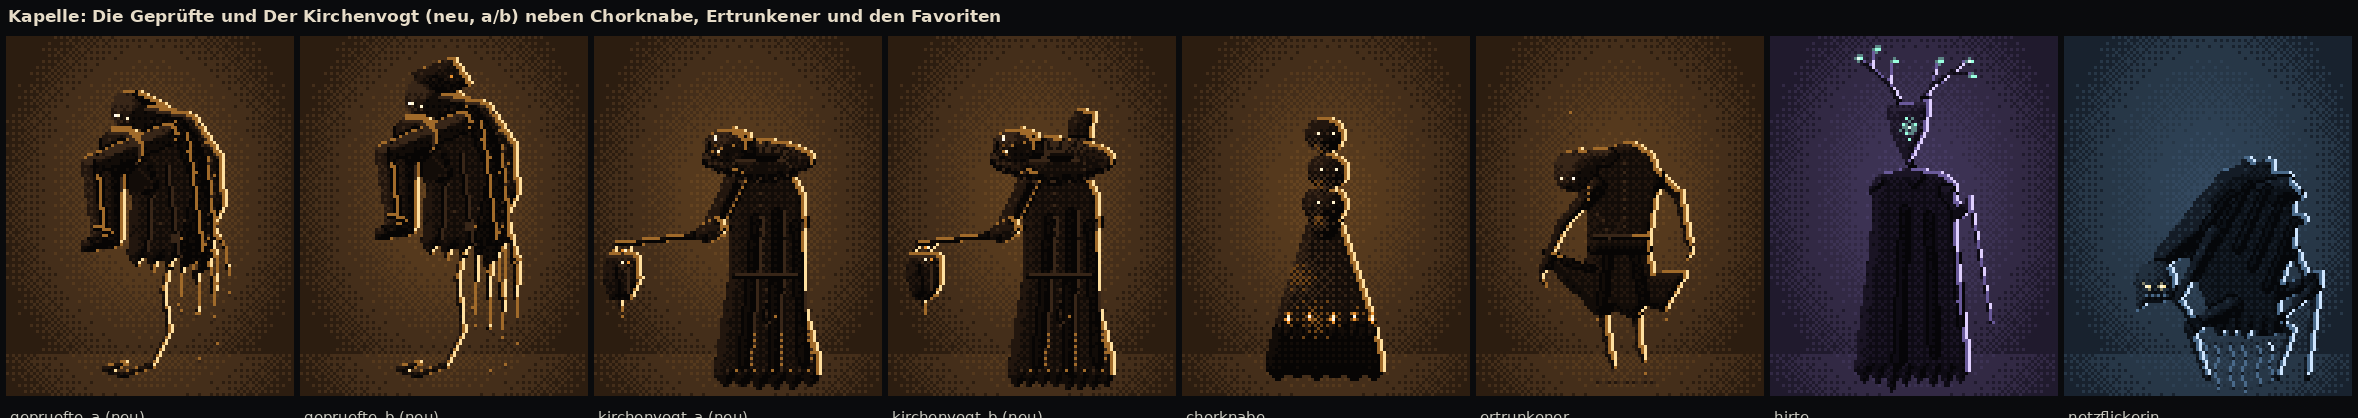
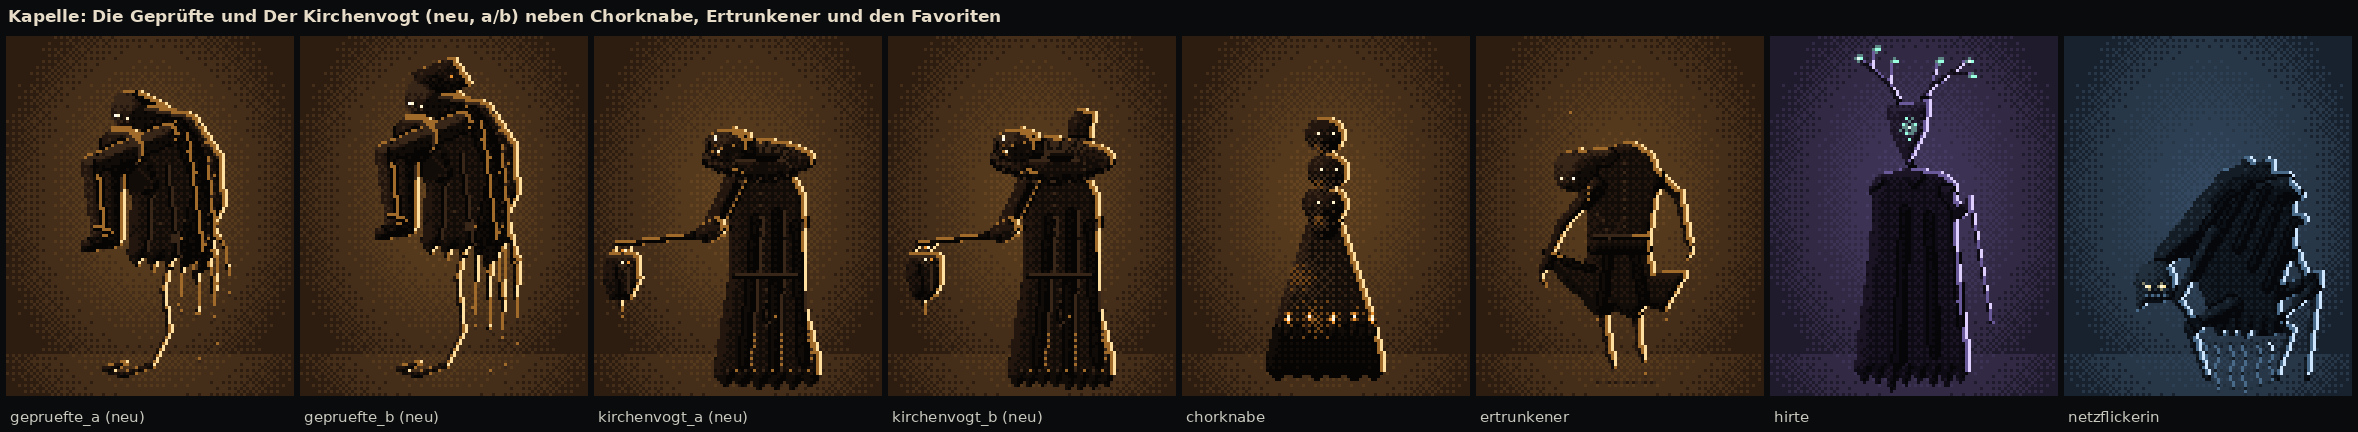
M5: Kontaktbogen je Biom automatisch (tools/biom-bogen.js)
Claude-Session: https://claude.ai/code/session_01TghvEfjLh3w7y1uAeKR46M

diff --git a/prototype/js/scenes/world/ufer.js b/prototype/js/scenes/world/ufer.js
@@ -33,7 +33,7 @@ function deckeBauen(K, P, o) {
   for (let x = -M; x < W + M; x++) {
     let yTop = -M - 1;
     const Z0 = Math.max(.6, P.h * (Yc - 2.4) / (P.vy + M) * .9);
-    for (let Z = Z0; Z < 90; Z += .004 + Z * .007) {
+    for (let Z = Z0; Z < 90; Z += .003 + Z * .0045) {
       const X = (x + .5 - P.vx) * Z / P.h, ww = w(X, Z), ys = P.vy - P.h * (Yc - 1 - ww) / Z;
       if (ys <= yTop) continue;
       const u = frac(phase(X, Z)), dZ = (w(X, Z + .02) - w(X, Z - .02)) / .04;
@@ -46,7 +46,7 @@ function deckeBauen(K, P, o) {
       else t += (.12 - .3 * Math.pow((u - .14) / .86, .7)) * A0 + Math.min(.15, Math.max(0, -dZ) * .05);
       t += (B.fbm(X * .9, Z * .6, sd + 11, 2) - .5) * .14;
       const fl = B.fbm(X * 1.3 + 4, Z * .9, sd + 21, 2);
-      const schaum = u > .12 && u < .16 + (fl - .5) * .06 && ww > .25 && Z < 30 && fl > .42;
+      const schaum = u > .12 && u < .16 + (fl - .5) * .06 && ww > .25 && Z < 13 && fl > .42;
       const y0 = Math.max(-M, Math.ceil(yTop)), y1 = Math.min(P.vy, Math.floor(ys));
       for (let y = y0; y <= y1; y++) {
         let c;
@@ -60,6 +60,8 @@ function deckeBauen(K, P, o) {
     // bis zum Horizont: der helle, flache Streifen, wo Meer und Sand sich hinten treffen
     for (let y = Math.max(-M, Math.ceil(yTop)); y <= P.vy; y++) { const tt = B.clamp(.75 + .2 * Math.exp(-(((x - (o.lichtX || 380)) / 140) ** 2)), 0, .9999) * n, k = Math.floor(tt); e.set(x, y, PW[Math.min(n, (tt - k) > B.bay(x, y) ? k + 1 : k)]); }
   }
+  // unter den Schaumkronen hängen Fäden aus Wasser, wie bei einer Welle, die gleich nach unten bricht
+  for (let i = 0; i < schaumPx.length; i += 2) { const x = schaumPx[i], y = schaumPx[i + 1]; if (B.hash(x, y, 9) > .78) { const l = 1 + Math.floor(B.hash(x, y, 10) * (y < 60 ? 6 : 3)); for (let j = 1; j <= l; j++) e.set(x, y + j, PW[j < l ? 8 : 6]); } }
   // Morgenlicht hinter dem Wasser, hinten rechts: gedithertes Glühen auf der Decke
   B.gluehen(e, o.lichtX || 380, P.vy - 10, 120, MORGEN_G2, .8);
   K.licht(o.lichtX || 380, P.vy - 6, MORGEN, 160, .9);
@@ -85,13 +87,14 @@ function gischt(K, P, xs, yBis, o) {
 function saeule(K, P, Xc, Zc, rc, Yc, o) {
   o = o || {};
   const h = P.h, k = h / Zc, m = B.maske(), L = [], R = [];
-  for (let Y = 0; Y <= Yc + .3; Y += .04) {
-    const top = Math.max(0, (Y - Yc * .5) / (Yc * .5)), fuss = Math.max(0, (.5 - Y) / .5);
-    const r = rc * (1 + 3.2 * top * top + .9 * fuss * fuss) + Math.sin(Y * 3.1) * rc * .06;
+  const Yt = Yc - (o.tief || 1) + .25;
+  for (let Y = 0; Y <= Yt; Y += .04) {
+    const top = Math.max(0, (Y - Yt * .45) / (Yt * .55)), fuss = Math.max(0, (.5 - Y) / .5);
+    const r = rc * (1 + 3.6 * top * top + .9 * fuss * fuss) + Math.sin(Y * 3.1) * rc * .06;
     const [cx, cy] = P.q(Xc, Y, Zc); L.push([cx - r * k, cy]); R.push([cx + r * k, cy]);
   }
   m.poly([...L, ...R.reverse()]);
-  const yF = P.q(Xc, 0, Zc)[1], yT = P.q(Xc, Yc, Zc)[1], cx0 = P.q(Xc, 0, Zc)[0], eb = o.ebene || K.eb(yF - 1);
+  const yF = P.q(Xc, 0, Zc)[1], yT = P.q(Xc, Yt, Zc)[1], cx0 = P.q(Xc, 0, Zc)[0], eb = o.ebene || K.eb(yF - 1);
   // Wasser fällt: senkrechte Bahnen, innen durchscheinend (das Licht kommt von oben durchs Wasser)
   B.form(K.e[eb], m, K.mat(o.tiefe || 0, { k: WASSER.slice(2, 8), r: [WASSER[8], SCHAUM[1]], ton: 2.4, fase: 2, rand: 2, verlauf: -1.2,
     muster: (x, y) => { const s = B.rausch1((x - cx0) * .45, 41); return (s > .62 ? .9 : s < .3 ? -.8 : 0) + Math.max(0, 1 - Math.abs(x - cx0) / (rc * k * 1.6)) * .8; } }));
@@ -121,6 +124,26 @@ function sandBoden(K, P, o) {
     for (const [nx, nz, nr] of nass) { const d = Math.hypot(X - nx, (Z - nz) * .8) / nr; if (d < 1) t -= .22 * (1 - d * d); else if (d < 1.12) t += .1; }
     return t;
   });
+}
+// Flutlinie aus Tang und Muscheln quer über den Sand (wie am Strand vom Anfang), dazu einzelne Steine
+function flutlinie2(K, P, Z0, o) {
+  o = o || {}; const sd = (K.o.seed | 0) % 53;
+  for (let x = -M; x < W + M; x++) {
+    const X = (x + .5 - P.vx) * Z0 / P.h, Z = Z0 + Math.sin(X * .8 + sd) * .35 + (B.fbm(X * .5, 0, sd, 2) - .5) * .8, [, y] = P.q(X, 0, Z), k = P.k(Z);
+    if (o.luecke && Math.abs(X - o.luecke[0]) < o.luecke[1]) continue;
+    if (B.fbm(X * 2.2, 3, sd + 2, 2) < .44) continue; const e = K.e[K.eb(y)], dk = Math.max(1, Math.round(k * .012));
+    for (let j = 0; j < dk; j++) e.set(x, Math.round(y) + j, B.pk(j === 0 && B.hash(x, 1, sd) > .6 ? '#3a4a30' : '#151a12'));
+    if (B.hash(x, 2, sd) > .93) { e.set(x, Math.round(y) - 1, B.pk(SAND[7])); e.set(x + 1, Math.round(y) - 1, B.pk('#c8c0a8')); }
+  }
+}
+function steine(K, P, n, o) {
+  o = o || {}; const r = B.rng((K.o.seed | 0) * 31 + (o.s || 1));
+  for (let i = 0; i < n; i++) {
+    const Z = 1.2 + Math.pow(r(), 1.5) * 8, X = r.f(-6, 6) * Z / 4, [x, y] = P.q(X, 0, Z), k = P.k(Z), m = B.maske();
+    if (o.frei && Math.abs(x - o.frei[0]) < o.frei[1] && y > o.frei[2]) continue;
+    const sz = Math.max(1, k * r.f(.03, .07)); m.ell(x, y - sz * .4, sz, sz * .65);
+    K.form(K.eb(y), m, Math.min(.5, Z / 20), { k: FELS, r: [SAND[6], MORGEN], ton: 1.8, fase: sz > 3 ? 1 : 0, rand: sz > 3 ? 2 : 1, schatten: sz > 2 ? 1 : 0 });
+  }
 }
 // Fußspuren: deine. Sie führen von vorne in die Säule (oder unter die Welle) und kommen nicht zurück.
 // pfad: Liste [X, Z] in Weltkoordinaten; ende: ab welchem Anteil sie nass sind
@@ -174,22 +197,23 @@ function strandkorb(K, P, X, Z, o) {
 // Rechts der Mitte hängt die Säule auf den Sand, deine Spuren führen von links vorne hinein.
 function flutlinie(K, o) {
   o = o || {}; const P = B.persp(240, 148), Yc = 4.2, fr = K.fr; K.split = [160, 176];
-  const Xs = 1.15, Zs = 5.2;
+  const Xs = 2.9, Zs = 4.6;
   deckeBauen(K, P, { Yc, ruhig: o.ruhig, trichter: o.ohneSaeule ? null : (X, Z) => 1.1 * Math.exp(-(((X - Xs) / 1.1) ** 2) - (((Z - Zs) / 1.3) ** 2)) });
   sandBoden(K, P, { nass: o.ohneSaeule ? [[-2.4, 4.6, .7]] : [[Xs, Zs, .9], [-2.4, 4.6, .7]] });
+  flutlinie2(K, P, 2.4); flutlinie2(K, P, 6.5); steine(K, P, 14, { frei: [240, 70, 175] });
   // ferne Felsen am Horizont links (die Höhle hat Wände), klein gegen die Weite
   fels(K, 1, [[-M, P.vy + 1], [-M, P.vy - 30], [20, P.vy - 34], [44, P.vy - 20], [70, P.vy - 14], [96, P.vy - 4], [110, P.vy + 1]], .55, { rand: 1 });
   fels(K, 2, [[350, P.vy + 2], [360, P.vy - 6], [372, P.vy - 9], [384, P.vy - 3], [392, P.vy + 2]], .35);
   let s = null;
-  if (!o.ohneSaeule) s = saeule(K, P, Xs, Zs, .14, Yc, { ruhig: o.ruhig, tiefe: .05 });
+  if (!o.ohneSaeule) s = saeule(K, P, Xs, Zs, .19, Yc, { ruhig: o.ruhig, tiefe: .05, tief: 1.1 });
   // deine Spuren: von links vorne quer über den Sand in die Säule
   const ziel = o.ohneSaeule ? [Xs - .3, Zs - .6] : [Xs - .05, Zs - .1];
-  spuren(K, P, [[-1.6, 1.1], [-1.1, 1.9], [-.2, 3.0], [.6, 4.1], ziel], { nassAb: .82 });
-  if (fr > .4 && !o.ohneSaeule) spuren(K, P, [[-3.2, 2.2], [-1.9, 3.2], [-.4, 4.4], [Xs - .15, Zs + .05]], { nassAb: .8, schritt: .4 });
-  if (fr > .8 && !o.ohneSaeule) spuren(K, P, [[3.6, 1.6], [2.9, 2.8], [1.8, 4.2], [Xs + .1, Zs]], { nassAb: .8, schritt: .44 });
+  spuren(K, P, [[-1.4, 1.1], [-.7, 1.9], [.3, 2.9], [1.5, 3.8], ziel], { nassAb: .82 });
+  if (fr > .4 && !o.ohneSaeule) spuren(K, P, [[-3.2, 2.2], [-1.6, 3.4], [.6, 4.4], [Xs - .25, Zs + .05]], { nassAb: .8, schritt: .4 });
+  if (fr > .8 && !o.ohneSaeule) spuren(K, P, [[4.6, 1.6], [4.0, 2.8], [3.3, 4.0], [Xs + .15, Zs]], { nassAb: .8, schritt: .44 });
   // die tiefste Lippe vorne lässt Gischt fallen
   if (!o.ruhig) gischt(K, P, [[96, 18, .5], [131, 30, .35], [402, 12, .45], [438, 24, .3]], P.vy + 8);
-  treibholz(K, 330, 238, 1);
+  treibholz(K, 352, 240, 1);
   if (!o.ohneRand) hoehlenRand(K, [78, 70], [420, 60]);
   B.partikel(K, { n: 30, farben: [WASSER[8], SCHAUM[0]], vx: 0, vy: 14, wob: 2, wf: .6, y0: 0, y1: P.vy + 20, laenge: 2, p: .4 });
   K.reihen = [{ y: 170, skala: .9, nebel: .3 }, { y: 192, skala: 1, nebel: .12 }, { y: 214, skala: 1, nebel: 0 }];
@@ -204,6 +228,7 @@ function brecher(K) {
   const extra = (X, Z) => 2.6 * Math.exp(-(((Z - 3.6 - X * .18) / .9) ** 2)) * B.clamp((-.2 - X) / 2.2, 0, 1);
   deckeBauen(K, P, { Yc, extra, lichtX: 400, dichte: 1.1 });
   sandBoden(K, P, { nass: [[-3.6, 4.2, 1.4]], lichtX: 400 });
+  flutlinie2(K, P, 2.0); flutlinie2(K, P, 5.2); steine(K, P, 12, { s: 2, frei: [250, 70, 185] });
   // wo die Lippe auf dem Sand aufliegt: ein Schaumsaum
   const sm = B.maske(); for (let i = 0; i < 40; i++) { const X = -7 + i * .12, Z = 3.6 + X * .18 + .25; if (X > -1.4) break; const [x, y] = P.q(X, 0, Z); sm.ell(x, y, 4 + B.hash(i, 0, 2) * 4, 1.6); }
   B.form(K.e[K.eb(P.q(-3, 0, 3.4)[1])], sm, K.mat(0, { k: [WASSER[7], SCHAUM[0], SCHAUM[1], SCHAUM[1]], r: [SCHAUM[1]], ton: 1.5, fase: 0, rand: 1 }));
@@ -226,12 +251,13 @@ function strandkorbSzene(K, o) {
   const Xs = -1.9, Zs = 7.5;
   deckeBauen(K, P, { Yc, lichtX: 330, ruhig: o.ruhig, trichter: (X, Z) => 1.2 * Math.exp(-(((X - Xs) / 1.2) ** 2) - (((Z - Zs) / 1.5) ** 2)) });
   sandBoden(K, P, { nass: [[Xs, Zs, 1]], lichtX: 330 });
+  flutlinie2(K, P, 4.2); steine(K, P, 10, { s: 3, frei: [250, 70, 175] });
   // Felswand rechts in Flucht: Schichten, nass, oben vom Wasser abgeschnitten
   const XW = 2.7, unten = [], oben = [];
   for (let Z = 1; Z <= 40; Z *= 1.06) { const xo = XW + Math.sin(Z * 1.7) * .12; unten.push(P.q(xo, 0, Z)); oben.push(P.q(xo, Yc - .5 - Math.sin(Z * 2.3) * .35, Z)); }
   const wm = B.maske(); wm.poly([...unten, ...oben.reverse(), [W + M + 400, -M - 400], [W + M + 400, H + M]]);
   K.form(2, wm, .05, { k: FELS, ton: 1.5, fase: 2, rand: 2, schatten: 2, verlauf: -.6, muster: (x, y) => { const Z = (XW * P.h) / Math.max(1, x - P.vx), Y = 1 - (y - P.vy) * Z / P.h; return (frac(Y * 3 + B.fbm(Z * .3, 0, 4, 2)) < .12 ? -.7 : 0) + (B.fbm(Z * .8, Y * 2, 5, 2) - .5) * .7; } });
-  saeule(K, P, Xs, Zs, .12, Yc, { ruhig: o.ruhig, tiefe: .1 });
+  saeule(K, P, Xs, Zs, .14, Yc, { ruhig: o.ruhig, tiefe: .1, tief: 1.2 });
   const korb = strandkorb(K, P, -.7, 2.7);
   spuren(K, P, [[.9, 1.1], [.3, 2.2], [-.2, 3.0], [-.9, 4.4], [-1.5, 6.0], [Xs, Zs - .1]], { nassAb: .85 });
   // ein Handtuch über der Armlehne des Korbs, nass
@@ -254,9 +280,10 @@ function finale(K) {
   // Spirale: die Phase dreht um die Säule
   deckeBauen(K, P, { Yc, trichter, lichtX: 240, dichte: .8, extra: (X, Z) => .25 * Math.sin(Math.atan2(Z - Zs, X - Xs) * 3 + Math.hypot(X - Xs, Z - Zs) * 2.2) * Math.exp(-((Math.hypot(X - Xs, Z - Zs) / 3) ** 2)) });
   sandBoden(K, P, { nass: [[Xs, Zs, 1.6]], lichtX: 240 });
+  flutlinie2(K, P, 2.2, { luecke: [0, 1.4] }); steine(K, P, 12, { s: 4, frei: [240, 120, 160] });
   fels(K, 1, [[-M, P.vy + 1], [-M, P.vy - 40], [30, P.vy - 30], [70, P.vy - 12], [100, P.vy + 1]], .5, { rand: 1 });
   fels(K, 1, [[W + M, P.vy + 1], [W + M, P.vy - 46], [450, P.vy - 36], [416, P.vy - 16], [380, P.vy + 1]], .5, { rand: 1 });
-  const s = saeule(K, P, Xs, Zs, .42, Yc, { tiefe: 0 });
+  const s = saeule(K, P, Xs, Zs, .42, Yc, { tiefe: 0, tief: 2.1 });
   // Spuren von überall her, alle hinein
   [[[-3.8, 1.2], [-2.6, 2.4], [-1.1, 3.8], [-.3, 4.4]], [[3.4, 1.3], [2.2, 2.6], [.9, 3.9], [.3, 4.4]], [[-.6, 1.1], [-.4, 2.6], [-.1, 4.0]],
    [[-6, 4.2], [-3.5, 4.4], [-.5, 4.6]], [[6.4, 3.6], [3.8, 4.2], [.5, 4.6]], [[1.6, 1.1], [1.1, 2.4], [.4, 4.1]]].forEach((p, i) => spuren(K, P, p, { nassAb: .75, schritt: .4 + (i % 3) * .03 }));

diff --git a/prototype/js/scenes/world/walkathedrale.js b/prototype/js/scenes/world/walkathedrale.js
@@ -79,14 +79,14 @@ function herzFerne(K, x, y, w, h, eb) {
 }
 // Eisboden mit Bohlenweg der Expedition (Planken quer) und eingefrorenen Knochensplittern
 function boden(K, P, y0, wegB) {
-  K.bodenStoffe(y0, H + M, [{ cols: EISBODEN, tf: (x, y) => { const Z = P.z(y + .5), X = (x + .5 - P.vx) * Z / P.h; return .35 + B.fbm(X * 1.5, Z * 1.2, 21, 3) * .4 - Math.min(.25, Z / 40) * -1 + (Math.abs(frac(X * .7 + Z * .3) - .5) < .02 ? .3 : 0) + (B.hash(Math.floor(X * 6), Math.floor(Z * 4), 9) < .03 ? .6 : 0); } },
-    { cols: HOLZ, tf: (x, y) => { const Z = P.z(y + .5); return frac(Z * 2.6) < .14 ? .05 : .45 + B.hash(Math.floor(Z * 2.6), 1, 4) * .35 + (frac(Z * 2.6) > .8 ? .2 : 0); } }],
+  K.bodenStoffe(y0, H + M, [{ cols: EISBODEN, tf: (x, y) => { const Z = P.z(y + .5), X = (x + .5 - P.vx) * Z / P.h; const n = B.fbm(X * 1.4, Z * 1.1, 21, 3), riss = Math.abs(B.fbm(X * 2.2, Z * 1.6, 44, 2) - .5) < .018 * Math.min(3, Z); return .3 + n * .35 + Math.min(.3, Z / 30) - (riss ? .3 : 0) + (B.hash(Math.floor(X * 9), Math.floor(Z * 9), 9) < .006 ? .5 : 0) - Math.max(0, 1.6 - Z) * .15; } },
+    { cols: HOLZ, tf: (x, y) => { const Z = P.z(y + .5); return frac(Z * 2.6) < .16 ? 0 : .22 + B.hash(Math.floor(Z * 2.6), 1, 4) * .3 + (frac(Z * 2.6) > .82 ? .18 : 0) + Math.min(.25, Z / 40); } }],
   (x, y) => { const Z = P.z(y + .5), X = (x + .5 - P.vx) * Z / P.h; return wegB && Math.abs(X - wegB[0]) < wegB[1] && Z < wegB[2] ? 1 : 0; });
 }
 // Junge Rippe, die aus dem Boden treibt und sich zur Mitte krümmt (falsches Detail)
 function trieb(K, P, X, Z, gross) {
   const s = Math.sign(X) || 1, pts = []; for (let i = 0; i <= 6; i++) { const q = i / 6; pts.push([X - s * q * q * .7 * gross, q * .95 * gross, Z]); }
-  rippe3(K, P, K.eb(P.q(X, 0, Z)[1]), pts, .055 * gross, Math.min(.5, Z / 20), 2.4);
+  rippe3(K, P, K.eb(P.q(X, 0, Z)[1]), pts, .055 * gross, Math.min(.5, Z / 20), 1.6 + Z * .08);
 }
 
 // =====================================================================
@@ -108,16 +108,16 @@ function schiff(K, cfg) {
       // Hakenende (nach innen, frei über dem Boden), dann der Bogen hinauf zum Grat
       pts.push([s * (Xw - .75), .55, Z], [s * (Xw - .35), .3, Z], [s * Xw, .7, Z]);
       for (let k = 1; k <= 9; k++) { const u = k / 9; pts.push([s * Xw * Math.pow(Math.cos(u * Math.PI / 2), .75), .7 + (Ya - .7) * Math.pow(Math.sin(u * Math.PI / 2), .85), Z + u * .15]); }
-      rippe3(K, P, eb, pts, .14 + (i % 2) * .02, tiefe, 2.6 - tiefe, (i % 3 === 1 && Z > 2.4 && Z < 16) ? .9 + fr * .3 : 0);
+      rippe3(K, P, eb, pts, .14 + (i % 2) * .02, tiefe, 1.3 + tiefe * 1.6, (i % 3 === 1 && Z > 2.4 && Z < 16) ? .9 + fr * .3 : 0);
     }
     // Wirbel am Grat: Knoten mit Dornfortsatz
     const [vx, vy] = P.q(0, Ya + .25, Z + .15), k = P.k(Z), m = B.maske(); m.ell(vx, vy, k * .32, k * .2); m.kap(vx, vy, vx + k * .05, vy - k * .38, k * .07, k * .03);
-    K.form(eb, m, tiefe, knochenMat(2.4 - tiefe));
+    K.form(eb, m, tiefe, knochenMat(1.3 + tiefe * 1.6));
   }
   // Grat zwischen den Wirbeln
   const g = B.maske(); for (let i = 0; i < 11; i++) { const Z1 = 1.25 * Math.pow(1.3, i), Z2 = Z1 * 1.3; g.kap(...P.q(0, Ya + .25, Z1), ...P.q(0, Ya + .25, Z2), P.k(Z1) * .08, P.k(Z2) * .08); }
   K.form(2, g, .3, knochenMat(1.6));
-  boden(K, P, P.vy, [0, .55, 24]);
+  boden(K, P, P.vy, [0, .38, 24]);
   // Junge Rippen aus dem Boden, zur Mitte gekrümmt
   for (const [X, Z, gr] of [[-1.6, 2.6, 1], [1.9, 3.3, .8], [-2.2, 5.5, .9], [1.4, 7.5, .7], [-1.2, 11, .6]]) trieb(K, P, X, Z, gr * (1 + fr * .4));
   // Tranlampen am Weg; mit der Fremdheit verlöschen die hinteren
@@ -137,17 +137,17 @@ function kiefer(K, cfg) {
   eisWand(K, 470, 60, { unten: 120 });
   lichtRiss(K, 448, 30, 60, 1.9);
   // Ferne: Schädelkuppel mit Augenhöhle, in der Mark glimmt (Wahrzeichen: das Herz ist hier nur Glimmen in der Ferne)
-  const sk = B.maske(); sk.ell(150, 150, 190, 92); sk.rect(-M, 150, 360, 30); sk.ell(260, 128, 14, 9, 0);
-  K.form(1, sk, .62, knochenMat(1.2, { verlauf: .6 }));
+  const sk = B.maske(); sk.ell(150, 150, 170, 70); sk.rect(-M, 150, 330, 20); sk.ell(260, 128, 14, 9, 0);
+  K.form(1, sk, .2, knochenMat(.5, { verlauf: .5, muster: (px, py, d) => (Math.abs(frac((px * .4 + py) / 11) - .5) < .07 ? -.5 : 0) + (B.hash(px >> 2, py >> 2, 6) < .1 ? -.4 : 0) + (d > 3 ? -.3 : 0) }));
   B.gluehen(K.e[1], 260, 128, 26, MARK_G, 1); K.e[1].set(260, 128, B.pk(MARK)); K.e[1].set(261, 128, B.pk(MARK_D)); K.licht(260, 128, MARK, 40, .5);
   herzFerne(K, 96, P.q(0, 0, 14)[1], 18, 26, 1);
   // Zweiter Kiefer (hinten), dann der vordere: Bögen von links unten nach rechts oben
   const bogen = (x0, y0, x1, y1, bauch, r0, r1, eb, tiefe, ton) => { const pts = []; for (let k = 0; k <= 16; k++) { const q = k / 16; pts.push([x0 + (x1 - x0) * q, y0 + (y1 - y0) * q - Math.sin(q * Math.PI) * bauch]); } const m = B.maske(); m.pfad(pts, r0, r1); K.form(eb, m, tiefe, knochenMat(ton)); return pts; };
-  bogen(40, 168, 470, -30, 40, 9, 13, 2, .35, 2.2);
-  const vk = bogen(-30, 250, 520, -60, 70, 22, 30, 3, .05, 2.6);
+  bogen(60, 172, 500, -20, 70, 8, 12, 2, .3, 1.6);
+  const vk = bogen(-40, 262, 530, -50, 120, 18, 26, 3, .02, 1);
   // Zahnreihe auf dem vorderen Kiefer: neue Zähne, die nach innen wachsen (falsches Detail)
   const z = B.maske(); for (let k = 3; k < 15; k += 1) { const [x, y] = vk[k], [x2, y2] = vk[k + 1], a = Math.atan2(y2 - y, x2 - x) - Math.PI / 2, l = 9 + (k % 3) * 4 + fr * 6; z.kap(x + Math.cos(a) * 18, y + Math.sin(a) * 18, x + Math.cos(a + .5) * (18 + l), y + Math.sin(a + .5) * (18 + l), 2.6, .6); }
-  K.form(3, z, .05, knochenMat(3));
+  K.form(3, z, .05, knochenMat(1.6));
   // Barten von oben: lange Platten, Kanten mit Randlicht, unten ausgefranst
   for (let i = 0; i < 26; i++) {
     const x = 130 + i * 13 + (i % 3) * 3, len = 40 + (i * 37 % 23) + Math.sin(i) * 10, m = B.maske();
@@ -183,15 +183,15 @@ function krypta(K, cfg) {
   eisWand(K, 470, -10);
   lichtRiss(K, 470, 4, 50, 2.2);
   const [hx, hy] = P.q(-.9, 0, 26); herzFerne(K, hx, hy, 16, 26, 1);
-  boden(K, P, P.vy, [.9, .5, 20]);
+  boden(K, P, P.vy, [.9, .36, 20]);
   for (let i = 9; i >= 0; i--) {
-    const Z = 1.6 * Math.pow(1.32, i), tiefe = Math.min(.8, Z / 22), eb = Z < 2.2 ? 4 : Z < 4.5 ? 3 : Z < 9 ? 2 : 1, k = P.k(Z);
+    const Z = 2.3 * Math.pow(1.3, i), tiefe = Math.min(.8, Z / 22), eb = Z < 2.9 ? 4 : Z < 4.5 ? 3 : Z < 9 ? 2 : 1, k = P.k(Z);
     // Wirbelkörper (Scheibe), Bogen mit Kanal, Dornfortsatz nach hinten oben, Querfortsätze
-    const [cx, cy] = P.q(-2.2, 1.25, Z), m = B.maske();
-    m.ell(cx, cy, k * .5, k * .78); m.ell(cx, cy - k * 1.05, k * .42, k * .4); m.kap(cx, cy - k * 1.3, cx + k * .35, cy - k * 2.7, k * .16, k * .06);
-    m.kap(cx - k * .2, cy - k * .6, cx - k * 1.3, cy - k * .9, k * .12, k * .05); m.kap(cx + k * .2, cy - k * .6, cx + k * 1.1, cy - k * .85, k * .12, k * .05);
+    const [cx, cy] = P.q(-2.4, .95, Z), m = B.maske();
+    m.ell(cx, cy, k * .46, k * .62); m.poly([[cx - k * .36, cy - k * .7], [cx - k * .3, cy - k * 1.3], [cx, cy - k * 1.48], [cx + k * .3, cy - k * 1.3], [cx + k * .36, cy - k * .7]]); m.kap(cx, cy - k * 1.3, cx + k * .35, cy - k * 2.7, k * .16, k * .06);
+    m.kap(cx - k * .25, cy - k * .75, cx - k * .75, cy - k * .95, k * .1, k * .04); m.kap(cx + k * .25, cy - k * .75, cx + k * .7, cy - k * .92, k * .1, k * .04);
     m.ell(cx, cy - k * 1.02, k * .17, k * .16, 0);
-    K.form(eb, m, tiefe, knochenMat(2.5 - tiefe, { verlauf: .3 }));
+    K.form(eb, m, tiefe, knochenMat(1.2 + tiefe * 1.8, { verlauf: .4 }));
     // Bandscheibe darunter zum Boden: Eis, in dem der Wirbel steht
     const s = B.maske(); s.ell(cx, cy + k * .78, k * .55, k * .08); B.form(K.e[eb], s, K.mat(tiefe, { k: EIS.slice(1, 6), ton: 2, fase: 0, rand: 1 }));
     // Kanal: das Mark glimmt
@@ -199,7 +199,7 @@ function krypta(K, cfg) {
     B.gluehen(e, cx, cy - k * 1.02, k * .45, MARK_G2, gl); e.set(cx, cy - k * 1.02, B.pk(i < 4 ? MARK : MARK_D)); if (k > 40) { e.set(cx + 1, cy - k * 1.02, B.pk(MARK)); e.set(cx, cy - k * 1.02 + 1, B.pk(MARK_K)); }
     K.licht(cx, cy - k * 1.02, MARK, k * .9, .45);
     // Rippenansatz rechts als Strebepfeiler, haken nach innen
-    if (i % 2 === 0) rippe3(K, P, eb, [[3.6, 0, Z], [3.4, 1.6, Z], [3.2, 3.2, Z], [2.4, 4.4, Z], [1.6, 4.1, Z], [1.3, 3.6, Z]], .16, tiefe, 2.3 - tiefe, i === 4 ? 1 : 0);
+    if (i % 2 === 0) rippe3(K, P, eb, [[3.6, 0, Z], [3.4, 1.6, Z], [3.2, 3.2, Z], [2.4, 4.4, Z], [1.6, 4.1, Z], [1.3, 3.6, Z]], .16, tiefe, 1.2 + tiefe * 1.7, i === 4 ? 1 : 0);
   }
   // Decke: Eis mit Zapfen, die nach innen (zur Wirbelreihe) gebogen sind
   for (let i = 0; i < 14; i++) { const x = 20 + i * 34 + (i % 3) * 7, l = 14 + (i * 13 % 17), m = B.maske(); m.poly([[x - 5, -M], [x + 5, -M], [x + 1, l], [x - 3, l + 6]]); K.form(2, m, .3, { k: EIS.slice(2), ton: 2, fase: 1, rand: 2 }); }

diff --git a/prototype/js/scenes/world/wald.js b/prototype/js/scenes/world/wald.js
@@ -135,7 +135,7 @@ function schnittFront(K, eb, x, y, R, tiefe, o) {
   // Rinde als Ring: außen dunkel, oben rechts Randlicht
   for (let a = 0; a < 6.283; a += 0.01) { for (let d = 0; d < 3; d++) { const px = x + Math.cos(a) * (R - d) * (o.sx || 1), py = y + Math.sin(a) * (R - d); const f = Math.cos(a) * 0.75 - Math.sin(a) * 0.66; e.set(px, py, B.pk(B.mix(d === 0 && f > 0.4 ? RAND[1] : d < 2 && f > 0.2 ? RAND[0] : RINDE[d + 1], K.fern, tiefe))); } }
   // Die Zahlen der Vermesser: innen die höchste, nach außen abwärts, der äußerste Ring ohne Zahl
-  const dk = B.pk(B.mix('#0c0906', K.fern, tiefe)), hl = B.pk(B.mix(SCHNITT[6], K.fern, tiefe)), zN = Math.min(n - 1, o.zahlen || 7);
+  const dk = B.pk(B.mix(RAND[1], K.fern, tiefe)), hl = B.pk(B.mix('#0c0906', K.fern, tiefe)), zN = Math.min(n - 1, o.zahlen || 7);
   for (let i = 0; i < zN; i++) { const q = (i + 0.55) / n, a = -0.5 + (o.zahlWinkel || 0); const px = kx + Math.cos(a) * q * R * (o.sx || 1), py = ky + Math.sin(a) * q * R; zahl(e, px - 1, py - 2, ROEM[zN - 1 - i], dk, hl); }
   // Der äußerste Ring: frisch, heller, noch ohne Zahl
   for (let a = 0; a < 6.283; a += 0.012) { const px = kx + Math.cos(a) * (R - 4.5) * (o.sx || 1), py = ky + Math.sin(a) * (R - 4.5); if (m.has(px, py) && B.bay(px, py) < 0.6) e.set(px, py, B.pk(B.mix(SCHNITT[6], K.fern, tiefe))); }
@@ -252,20 +252,21 @@ function gefaellt(K) {
   stamm(K, 1, vx + 30, -M, vy + 3, 44, 34, 0.55, { harz: 3 }); bogen(K, 1, vx + 26, vy + 3, 8, 11, 0.55, { steine: 7 });
   // Der Stumpf, von dem der liegende Stamm kommt: hängt über der Mitte, unten gekappt
   stamm(K, 2, 236, -M, 74, 92, 64, 0.18, { krone: 'schnitt', flach: 0.3, ringe: 9, harzKern: true, harz: 6 });
+  // Boden zuerst (der Stamm liegt darauf)
+  const wb = waldboden(P, sd); K.boden(vy + 1, H + M, STEIN.slice(0, 7), wb);
+  for (let i = 0; i < 6; i++) { const x = 150 + i * 58 + r.j(16); blattwerk(K, 4, x, 214 + r.j(8), r.f(8, 14), r.f(3, 5), 0, { flach: true }); }
   // Der liegende Stamm: von links vorn (Schnittfläche) nach rechts hinten
   const e3 = K.e[3], m = B.maske(), x0 = 72, y0 = 150, R0 = 54, x1 = 520, y1 = 128, R1 = 22;
   const L = [], Rr = [];
   for (let i = 0; i <= 30; i++) { const t = i / 30, x = B.lerp(x0, x1, t), yc = B.lerp(y0, y1, t), rr = B.lerp(R0, R1, t); L.push([x, yc - rr]); Rr.push([x, yc + rr * 0.92]); }
   m.poly(L.concat(Rr.reverse()));
-  K.form(3, m, 0.06, { k: STEIN.slice(0, 8), r: RAND, ton: 0.7, fase: 2, rand: 2, schatten: 2, muster: (px, py) => { const t = (px - x0) / (x1 - x0), yc = B.lerp(y0, y1, t), rr = B.lerp(R0, R1, t), f = (py - yc) / rr; const lei = Math.sin(f * 7 + Math.sin(px * 0.03) * 0.8); return (lei > 0.6 ? 0.5 : lei < -0.6 ? -0.5 : 0) - f * 0.9 + (B.hash(px >> 3, py >> 1, 4) - 0.5) * 0.3; } });
+  K.form(3, m, 0.06, { k: STEIN.slice(0, 9), r: RAND, ton: 2.2, fase: 2, rand: 2, schatten: 2, muster: (px, py) => { const t = (px - x0) / (x1 - x0), yc = B.lerp(y0, y1, t), rr = B.lerp(R0, R1, t), f = (py - yc) / rr; const lei = Math.sin(f * 9 + Math.sin(px * 0.045 + f * 2) * 1.2); return (lei > 0.55 ? 0.8 : lei < -0.6 ? -0.9 : 0) - f * 1.6 - Math.max(0, f) * 1.2 + (B.hash(px >> 3, py >> 1, 4) - 0.5) * 0.4 + ((px * 7 + (py >> 1) * 13) % 97 === 0 ? -1.2 : 0); } });
   // Kerben der Legion im Stamm (Keile), ein Keil steckt noch, eine Dolabra lehnt daran
   for (let i = 0; i < 4; i++) { const x = 170 + i * 58, t = (x - x0) / (x1 - x0), yc = B.lerp(y0, y1, t) - B.lerp(R0, R1, t) * 0.7; const k = B.maske(); k.poly([[x - 6, yc - 3], [x + 5, yc - 4], [x, yc + 8]]); B.form(e3, k, K.mat(0, { k: ['#050403', '#0c0a07', '#3a2a14', '#7e5a22'], ton: 0.6, fase: 1, rand: 0 })); e3.set(x, yc + 6, B.pk(HARZ[5])); }
   const dol = B.maske(); dol.kap(312, 182, 296, 124, 1, 1); dol.poly([[290, 122], [304, 118], [306, 122], [292, 126]]); dol.kap(298, 121, 288, 128, 1.4, 0.6); K.form(4, dol, 0, { k: RINDE, r: RAND, ton: 1.4, fase: 0, rand: 1 });
   band(K, 120, 176, 0.4);
   // Schnittfläche vorne links: die Ringe mit den Zahlen der Vermesser
-  schnittFront(K, 3, x0, y0, R0 - 1, 0, { sx: 0.62, ringe: 10, zahlen: 9, zahlWinkel: 0.1 });
-  // Boden: Kronenschutt, eine Spur von Legionärssandalen (Nägel) entlang des Stamms
-  const wb = waldboden(P, sd); K.boden(vy + 1, H + M, STEIN.slice(0, 7), wb);
+  schnittFront(K, 3, x0, y0, R0 - 1, 0, { sx: 0.62, ringe: 8, zahlen: 7, zahlWinkel: -1.0 });
   // Kronen vom liegenden Stamm: rechts hinten liegen sie über dem Boden ausgebreitet
   krone(K, 2, 476, 138, 30, 0.3, { krone: 'boden', boden: 152 });
   traene(K, 1, 440, 14, 3.8, { staerke: 1.2 }); traene(K, 2, 300, 30, 1.8, { staerke: 0.5 }); traene(K, 2, 196, 40, 1.4, { staerke: 0.4 });

diff --git a/tools/biom-bogen.js b/tools/biom-bogen.js
@@ -1,0 +1,30 @@
+// Kontaktbogen eines Bioms automatisch aus den Spieldaten (auch Pakete und Ergänzungen):
+// alle Gegner und Varianten (Idle-Bild 0 und Angriffsbild 2) neben den Favoriten Chorknabe, Hirte, Netzflickerin
+// auf dem Nebel des Bioms, darunter der Silhouetten-Bogen (alle Sprites schwarz gefüllt).
+// Braucht den lokalen Server (cd prototype && python3 -m http.server 8000).
+// node tools/biom-bogen.js <biom> [ordner=docs/auftrag-2/bilder/bogen] [--alle]   (--alle: jedes Biom einzeln)
+const {chromium}=require('playwright');const fs=require('fs'),path=require('path');
+(async()=>{const a=process.argv.slice(2);const pos=a.filter(x=>!x.startsWith('--'));const out=pos[1]||path.join(__dirname,'../docs/auftrag-2/bilder/bogen');fs.mkdirSync(out,{recursive:true});
+ const b=await chromium.launch();const p=await b.newPage({viewport:{width:1600,height:900}});const fehler=[];p.on('pageerror',e=>fehler.push(String(e)));
+ await p.goto('http://localhost:8000/index.html?dev=0');await p.waitForFunction(()=>typeof BIOMES!=='undefined'&&Object.keys(BIOMES).length>3);
+ const biome=a.includes('--alle')?await p.evaluate(()=>Object.keys(BIOMES).filter(k=>!k.startsWith('_'))):[pos[0]];
+ for(const biom of biome){
+  const html=await p.evaluate(async biom=>{const B=BIOMES[biom];if(!B)return null;
+   const ids=[...new Set([...(B.gegner||[]),B.waechter])].filter(id=>FOES[id]);
+   const sprites=[];for(const id of ids){const F=FOES[id];[...new Set([...(F.varianten||[F.sprite]),...((F.besonders&&F.besonders.sprites)||[])])].filter(Boolean).forEach(s=>sprites.push({id,s,n:F.n,rang:F.rang||'normal',fav:false}));}
+   const fav=['chorknabe_a','hirte_a','netzflickerin_a'].map(s=>({s,n:s.replace('_a','')+' (Favorit)',fav:true}));
+   const lade=s=>new Promise(res=>{fetch('assets/gegner/'+s+'.json').then(r=>r.ok?r.json():null).then(m=>{if(!m)return res(null);const img=new Image();img.onload=()=>res({m,img});img.onerror=()=>res(null);img.src='assets/gegner/'+s+'.png';}).catch(()=>res(null));});
+   const neb=(B.nebel||['#101418','#202830']);const K=2;
+   const zeichne=(x,silh,frame,zeile)=>{const {m,img}=x;const c=document.createElement('canvas');c.width=m.w*K;c.height=m.h*K;const g=c.getContext('2d');g.imageSmoothingEnabled=false;
+    const gr=g.createRadialGradient(c.width/2,c.height*.55,10,c.width/2,c.height*.55,c.width*.7);gr.addColorStop(0,neb[1]);gr.addColorStop(1,neb[0]);g.fillStyle=silh?'#d8d0c0':gr;g.fillRect(0,0,c.width,c.height);
+    const z=document.createElement('canvas');z.width=m.w;z.height=m.h;const zg=z.getContext('2d');const an=m.anim[zeile]||m.anim.idle;zg.drawImage(img,Math.min(frame,an.n-1)*m.w,an.zeile*m.h,m.w,m.h,0,0,m.w,m.h);
+    if(silh){zg.globalCompositeOperation='source-in';zg.fillStyle='#000';zg.fillRect(0,0,m.w,m.h);}g.drawImage(z,0,0,m.w*K,m.h*K);return c.toDataURL();};
+   const kachel=async(e,silh)=>{const x=await lade(e.s);if(!x)return `<div class="k fehlt">${e.s}: Sprite fehlt</div>`;
+    return `<div class="k ${e.fav?'fav':''}"><div class="t">${e.fav?'★ ':''}${e.s} <small>${x.m.w}×${x.m.h}${e.rang&&e.rang!=='normal'?' · '+e.rang:''}</small></div><div class="r"><img src="${zeichne(x,silh,0,'idle')}">${silh?'':`<img src="${zeichne(x,false,2,'angriff')}">`}</div></div>`;};
+   let h=`<h1>${B.n} <small>(${biom}, Akt ${['I','II','III','IV','V'][B.akt]||'?'}) · ${ids.length} Typen, ${sprites.length} Sprites · Idle 0 und Angriff 2, ×${K}</small></h1><div class="g">`;
+   for(const e of [...fav,...sprites])h+=await kachel(e,false);h+=`</div><h2>Silhouetten</h2><div class="g">`;for(const e of [...fav,...sprites])h+=await kachel(e,true);h+='</div>';return h;},biom);
+  if(!html){console.log('Biom unbekannt: '+biom);continue;}
+  const q=await b.newPage({viewport:{width:1600,height:900}});
+  await q.setContent(`<html><body style="margin:0;background:#0b0c0e;color:#e8dcc0;font:14px monospace;padding:14px"><style>h1{font-size:20px}h1 small,h2{font-size:13px;color:#9a8f78}.g{display:flex;flex-wrap:wrap;gap:10px}.k{background:#15161a;border:1px solid #2a2a30;padding:6px}.k.fav{border-color:#8a7440}.t{font-size:12px;margin-bottom:4px}.t small{color:#8a8070}.r{display:flex;gap:4px}.r img{display:block;image-rendering:pixelated}.fehlt{color:#ff7a6a}</style>${html}</body></html>`);
+  const f=path.join(out,biom+'-bogen.png');await q.screenshot({path:f,fullPage:true});await q.close();console.log('geschrieben: '+path.relative(process.cwd(),f));}
+ console.log(fehler.length?fehler.join('\n'):'Keine Seitenfehler.');await b.close();})();

diff --git a/tools/icons/items/patronengurt.js b/tools/icons/items/patronengurt.js
@@ -1,21 +1,19 @@
-// Patronengurt des Lotsen: ein Lederriemen als Schlaufe (über die Schulter), mit Schlaufen voller
-// Messingpatronen, eine Schlaufe leer. Messingschnalle unten.
+// Patronengurt des Lotsen: ein breiter Lederriemen als schräge Schlaufe (so, wie er über der Schulter hing),
+// außen ringsum die Messingpatronen in Schlaufen, alle nach außen; eine Schlaufe ist leer. Messingschnalle unten.
 'use strict';
 module.exports = {
   form(A) {
-    const { kurve, achse, acap, Pg } = A;
-    const pfad = [[8, 8], [14, 30], [28, 44], [42, 38], [38, 16], [20, 4], [8, 8]];
-    const gurt = kurve(pfad, 2.8, 2.8, null, { cr: true }, 30);
-    const pat = []; const leer = 6;
-    for (let i = 0; i < 13; i++) {
-      if (i === leer) continue; const q = 0.08 + i * 0.065; const [x, y] = gurt.B(q), [x2, y2] = gurt.B(q + 0.01);
-      const a = Math.atan2(y2 - y, x2 - x) - Math.PI / 2; const ax = achse(x, y, a);
-      pat.push(acap(ax, -1, 0, 4.5, 0, 1.1, 1.0));
-    }
-    const [sx, sy] = gurt.B(0.5); const schnalle = [Pg([[sx - 3, sy - 3], [sx + 3, sy - 3], [sx + 3, sy + 3], [sx - 3, sy + 3]], null, { b: 0.6 })];
+    const { ring, achse, acap, Pg } = A;
+    const cx = 24, cy = 25, rx = 13, ry = 18, dreh = -0.5;
+    const P0 = (a, k = 1) => { const x = Math.cos(a) * rx * k, y = Math.sin(a) * ry * k; return [cx + x * Math.cos(dreh) - y * Math.sin(dreh), cy + x * Math.sin(dreh) + y * Math.cos(dreh)]; };
+    const gurt = []; for (let i = 0; i < 28; i++) { const a0 = i / 28 * Math.PI * 2, a1 = (i + 1) / 28 * Math.PI * 2; gurt.push(A.C(...P0(a0), ...P0(a1), 2.6, 2.6)); }
+    const pat = []; const leer = 7;
+    for (let i = 0; i < 14; i++) { if (i === leer) continue; const a = i / 14 * Math.PI * 2; const [x0, y0] = P0(a, 1.0), [x1, y1] = P0(a, 1.4); pat.push(A.C(x0, y0, x1, y1, 1.6, 1.3)); }
+    const [sx, sy] = P0(Math.PI * 0.5); const schnalle = [Pg([[sx - 3.5, sy - 3], [sx + 3.5, sy - 3], [sx + 3.5, sy + 3], [sx - 3.5, sy + 3]], null, { b: 0.6 })];
+    void ring; void achse; void acap;
     return {
-      gruppen: [{ p: gurt, mat: 'leder', k: 0 }, { p: pat, mat: 'messing', k: 0 }, { p: schnalle, mat: 'messing', k: 0 }],
-      details(P) { const [x, y] = gurt.B(0.08 + leer * 0.065); P.set(x, y, 'kohle0'); P.set(sx, sy, 'kohle0'); },
+      gruppen: [{ p: pat, mat: 'messing', k: 0 }, { p: gurt, mat: 'leder', k: 0 }, { p: schnalle, mat: 'messing', k: 0 }],
+      details(P) { const [x, y] = P0(leer / 14 * Math.PI * 2, 1.08); P.set(x, y, 'kohle0'); P.set(sx, sy, 'kohle0'); P.set(sx - 1, sy, 'kohle0'); for (let i = 0; i < 14; i++) { if (i === leer) continue; const [px, py] = P0(i / 14 * Math.PI * 2, 1.42); P.auf(px, py, "kupfer1"); } },
     };
   },
 };

diff --git a/tools/sprites/gegner/oelerin.js b/tools/sprites/gegner/oelerin.js
@@ -47,11 +47,12 @@ module.exports = {
     const kx = 40 + lean + r(sp * 0.3), ky = 30 + T + hy + r(spY * 0.15);
     const hals = glied([[50 + lean, top + 2], [45 + lean + r(sp * 0.15), top - 8 + r(hy * 0.5)], [kx + 3, ky + 5]], 3, 2.2, null);
     // Kanne: flacher, breiter Leib, oben ein Kegel, der in den Ausguss übergeht; Deckel steht offen
-    const kanne = Pg([[kx - 9, ky + 4], [kx + 10, ky + 4], [kx + 11, ky - 1], [kx + 6, ky - 3], [kx - 2, ky - 6], [kx - 8, ky - 5], [kx - 11, ky - 1]], null, { rd: 1 });
-    const kanneBand = Pg([[kx - 10, ky + 1], [kx + 11, ky + 1], [kx + 11, ky + 3], [kx - 10, ky + 3]], 'dunkel', { rd: 0.2 });
-    const deckel = Pg([[kx + 2, ky - 5], [kx + 8, ky - 11], [kx + 10, ky - 10], [kx + 5, ky - 4]], null, { rd: 0.4 });
+    const KS = 1.3, kp = pts => pts.map(([a, b]) => [kx + a * KS, ky + b * KS]);
+    const kanne = Pg(kp([[-9, 4], [10, 4], [11, -1], [6, -3], [-2, -6], [-8, -5], [-11, -1]]), null, { rd: 1 });
+    const kanneBand = Pg(kp([[-10, 1.2], [11, 1.2], [11, 2.6], [-10, 2.6]]), 'dunkel', { rd: 0.2 });
+    const deckel = Pg(kp([[2, -5], [8, -11], [10, -10], [5, -4]]), null, { rd: 0.4 });
     // Ausguss: lang und dünn aus der Kegelspitze, erst waagerecht nach vorn, dann bis fast zum Boden
-    const t0 = [kx - 10, ky - 3];
+    const t0 = [kx - 10 * KS, ky - 3 * KS];
     const tip = [6 + lean * 0.3 - sp, (v.schwanen ? 70 : 82) + spY + r(fall * 0.4)];
     const mid = v.schwanen ? [kx - 30 - sp * 0.5, ky - 14 + spY * 0.3] : [kx - 26 - sp * 0.6, ky + 2 + spY * 0.2];
     const ausguss = glied([t0, mid, tip], 2.2, 0.8, null);
@@ -90,11 +91,11 @@ module.exports = {
       // Schnalle am Riemen
       P.auf(62 + lean, top + 16, 'bronze'); P.auf(63 + lean, top + 17, 'bronze');
       // Kanne: Nieten am Band, Fingerabdrücke (sieben) auf dem Bauch der Kanne
-      for (let i = -4; i <= 4; i += 2) P.auf(kx + i * 2, ky + 2, 'r1');
+      for (let i = -4; i <= 4; i += 2) P.auf(kx + i * 2.4, ky + 2.5, 'r1');
       for (let i = 0; i < 7; i++) P.auf(kx - 5 + i * 1.4, ky - 1 - (i === 0 || i === 6 ? 0 : 1), i % 2 ? 'k3' : 'k2');
       // offener Hals: darin leuchtet das Öl (das Auge der Ölerin)
       if (!p.tod || f < 1) {
-        const ox = r(kx + 3), oy = r(ky - 4);
+        const ox = r(kx + 3 * KS), oy = r(ky - 4 * KS);
         P.set(ox - 1, oy, 'glut'); P.set(ox, oy, 'kern'); P.set(ox + 1, oy, 'glut'); P.set(ox, oy + 1, 'glutDim');
         P.glow(ox + 0.5, oy + 2, 6, 0.8); P.set(ox, oy, 'kern'); augen.push([ox, oy]);
         // ein Tropfen leuchtendes Öl bildet sich an der Spitze und fällt

diff --git a/tools/sprites/gegner/ruft.js b/tools/sprites/gegner/ruft.js
@@ -285,7 +285,7 @@ function auge(p, v, A) {
   let lean = P0.lean; const T = P0.fall + (p.idle ? [0, -1, -1, 0][f] : 0);
   const cx = 120;
   let cy = 90 + T, offen = 1, lang = 1;
-  if (p.idle) offen = f === 3 ? 0.75 : 1;
+  if (p.idle) offen = f === 3 ? 0.9 : 1;
   if (p.angriff) { offen = [0.55, 0.4, 1.3, 1.05][f]; lang = [0.8, 0.7, 1.35, 1.1][f]; lean = [3, 4, -14, -5][f]; cy += [-3, -6, 2, 0][f]; }
   if (p.treffer) offen = 0.35;
   if (p.tod) offen = Math.max(0.05, 1 - p.q * 1.6);
@@ -310,7 +310,7 @@ function auge(p, v, A) {
   }
   // Ketten und Fäden hängen bis zum Boden; an der mittleren der Anker
   const ketten = [], glieder = [];
-  const ky = cy + 22, sw = p.idle ? [0, 1, 1, 0][f] : p.angriff ? [1, 2, -3, -1][f] : 0;
+  const ky = cy + 22, sw = p.idle ? [0, 0, 0, 0][f] : p.angriff ? [1, 2, -3, -1][f] : 0;
   for (const [ox, len, anker] of [[-22, BODEN - ky - 10, false], [-4, BODEN - ky - 30, true], [16, BODEN - ky - 4, false]]) {
     const pts = []; for (let i = 0; i <= 8; i++) { const q = i / 8; pts.push([ex + ox + Math.sin(q * 2.4 + ox) * 2 + sw * q * q * 3 - lean * q * 0.6, ky + q * len]); }
     for (let i = 0; i < 8; i++) for (let k = 0; k < 3; k++) { const q = (i + k / 3) / 8, x = pts[i][0] + (pts[i + 1][0] - pts[i][0]) * k / 3, y = pts[i][1] + (pts[i + 1][1] - pts[i][1]) * k / 3; glieder.push(((i * 3 + k) & 1) ? E(x, y, 1.4, 2.8, null) : E(x, y, 2.6, 1.8, null)); void q; }

diff --git a/docs/auftrag-2/fortschritt.md b/docs/auftrag-2/fortschritt.md
@@ -132,6 +132,7 @@ Allgemeiner Autospieler 30 Seeds: 47 %. **Korrigierte Ausreißer:** Brackwasser 
 
 | Datum | Meilenstein | Entscheidung | Grund |
 |---|---|---|---|
+| 2026-11-04 | M5 | `tools/biom-bogen.js` baut Kontakt- und Silhouetten-Bogen eines Bioms automatisch aus den Spieldaten (auch Pakete, Ergänzungen, `--alle`) | Abnahme „Kontaktbogen automatisch“; vorher schrieb jeder Agent sein eigenes Skript |
 | 2026-11-04 | M6/M7 | Besondere Krämer: Tausch (Kerzenfrau, Grotte), Leihe (Bibliothekar, Kloster), Spiegel (Glasmeer) | Die Steckbriefe beschreiben Krämer, die anders handeln; drei kleine Regeln im Kern geben jedem Biom eine eigene Handelsstelle |
 | 2026-11-04 | M8 | 11 neue biomübergreifende Ereignisse (zusammen 15); ein Viertel der Ereignisknoten zieht aus diesem Pool (`BAL.ereignis_allgemein`), Ereignisse können als Ganzes eine Bedingung `if` haben | Vorher kamen allgemeine Ereignisse nur, wenn das Biom leer war, also nie; Bedingung für Ereignisse, die sich auf Früheres beziehen (Photograph → Noch einmal der Photograph, Fischer-Netz, Laterne, Beichte) |
 | 2026-11-04 | M8 | `tools/test-ereignisse.js` spielt jedes Ereignis mit jeder Wahl einmal durch | Der Autospieler wählt Ereignisse selten; so läuft trotzdem jede Folge einmal |

diff --git a/docs/auftrag-2/paket-format.md b/docs/auftrag-2/paket-format.md
@@ -95,7 +95,7 @@ Format wie `data/events.json` (`id` mit Präfix `<biom>_`, `t`, `d`, `bild`, `o`
 ## Prüfen und benoten
 
 1. `node tools/sprites/pruefen.js <sprites…>`: 0 Verstöße.
-2. Kontaktbogen des Bioms **neben Chorknabe, Hirte, Netzflickerin** (`tools/sprites/vergleich.js` oder eigenes Skript) und Silhouetten-Bogen.
+2. Kontaktbogen des Bioms **neben Chorknabe, Hirte, Netzflickerin** und Silhouetten-Bogen: automatisch mit `node tools/biom-bogen.js <id> <ordner>` (liest die Spieldaten samt Paketen und Ergänzungen; `--alle` für jedes Biom).
 3. Hintergrund: Varianten 0–2 und Wächter-Szene über `prototype/hintergrund.html` bzw. Playwright.
 4. Im Spiel: `index.html?dev=0&job=fischer&seed=3&springe=kampf_schwer&akt=<akt>` mit erzwungenem Biom (Dev → Cheats → Biom erzwingen, oder per `page.evaluate`: `newRun('fischer',3,{dev:true,route:[…]})`), Bildschirmfoto Kampf und Wächter.
 5. `node tools/biom-test.js <id> 10`: 0 Fehler, der Akt soll schaffbar, aber nicht leicht sein (etwa 6–9 von 10).
